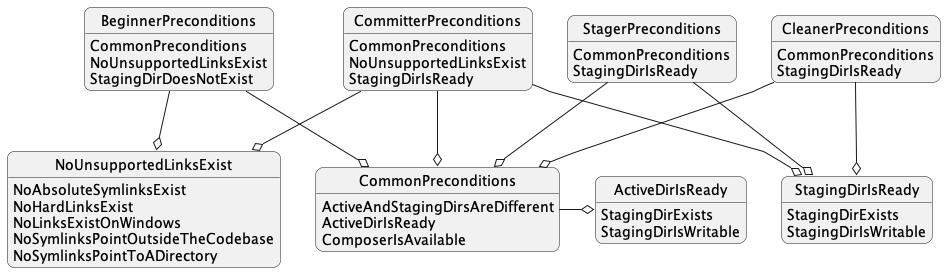
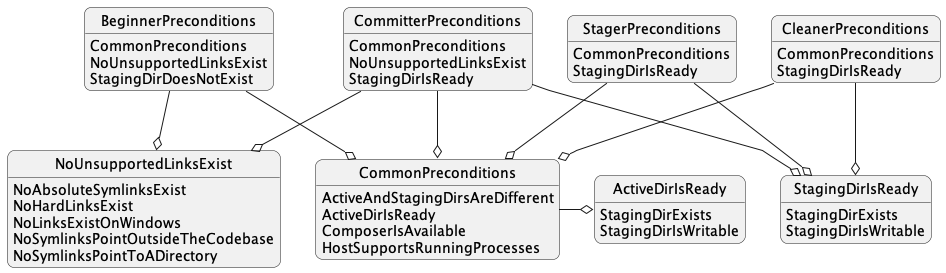
Add API\Precondition\Service\HostSupportsRunningProcessesInterface.

diff --git a/tests/Precondition/Service/CommonPreconditionsUnitTest.php b/tests/Precondition/Service/CommonPreconditionsUnitTest.php
@@ -5,6 +5,7 @@ namespace PhpTuf\ComposerStager\Tests\Precondition\Service;
 use PhpTuf\ComposerStager\API\Precondition\Service\ActiveAndStagingDirsAreDifferentInterface;
 use PhpTuf\ComposerStager\API\Precondition\Service\ActiveDirIsReadyInterface;
 use PhpTuf\ComposerStager\API\Precondition\Service\ComposerIsAvailableInterface;
+use PhpTuf\ComposerStager\API\Precondition\Service\HostSupportsRunningProcessesInterface;
 use PhpTuf\ComposerStager\Internal\Precondition\Service\CommonPreconditions;
 use PhpTuf\ComposerStager\Tests\Translation\Factory\TestTranslatableFactory;
 
@@ -23,6 +24,7 @@ use PhpTuf\ComposerStager\Tests\Translation\Factory\TestTranslatableFactory;
  * @property \PhpTuf\ComposerStager\API\Precondition\Service\ActiveAndStagingDirsAreDifferentInterface|\Prophecy\Prophecy\ObjectProphecy $activeAndStagingDirsAreDifferent
  * @property \PhpTuf\ComposerStager\API\Precondition\Service\ActiveDirIsReadyInterface|\Prophecy\Prophecy\ObjectProphecy $activeDirIsReady
  * @property \PhpTuf\ComposerStager\API\Precondition\Service\ComposerIsAvailableInterface|\Prophecy\Prophecy\ObjectProphecy $composerIsAvailable
+ * @property \PhpTuf\ComposerStager\API\Precondition\Service\HostSupportsRunningProcessesInterface|\Prophecy\Prophecy\ObjectProphecy $hostSupportsRunningProcesses
  */
 final class CommonPreconditionsUnitTest extends PreconditionTestCase
 {
@@ -40,6 +42,10 @@ final class CommonPreconditionsUnitTest extends PreconditionTestCase
         $this->composerIsAvailable
             ->getLeaves()
             ->willReturn([$this->composerIsAvailable]);
+        $this->hostSupportsRunningProcesses = $this->prophesize(HostSupportsRunningProcessesInterface::class);
+        $this->hostSupportsRunningProcesses
+            ->getLeaves()
+            ->willReturn([$this->hostSupportsRunningProcesses]);
 
         parent::setUp();
     }
@@ -49,12 +55,14 @@ final class CommonPreconditionsUnitTest extends PreconditionTestCase
         $activeAndStagingDirsAreDifferent = $this->activeAndStagingDirsAreDifferent->reveal();
         $activeDirIsReady = $this->activeDirIsReady->reveal();
         $composerIsAvailable = $this->composerIsAvailable->reveal();
+        $hostSupportsRunningProcesses = $this->hostSupportsRunningProcesses->reveal();
         $translatableFactory = new TestTranslatableFactory();
 
         return new CommonPreconditions(
             $activeAndStagingDirsAreDifferent,
             $activeDirIsReady,
             $composerIsAvailable,
+            $hostSupportsRunningProcesses,
             $translatableFactory,
         );
     }
@@ -68,6 +76,9 @@ final class CommonPreconditionsUnitTest extends PreconditionTestCase
             ->assertIsFulfilled($this->activeDir, $this->stagingDir, $this->exclusions)
             ->shouldBeCalledTimes(self::EXPECTED_CALLS_MULTIPLE);
         $this->activeAndStagingDirsAreDifferent
+            ->assertIsFulfilled($this->activeDir, $this->stagingDir, $this->exclusions)
+            ->shouldBeCalledTimes(self::EXPECTED_CALLS_MULTIPLE);
+        $this->hostSupportsRunningProcesses
             ->assertIsFulfilled($this->activeDir, $this->stagingDir, $this->exclusions)
             ->shouldBeCalledTimes(self::EXPECTED_CALLS_MULTIPLE);
 

diff --git a/tests/Precondition/Service/HostSupportsRunningProcessesFunctionalTest.php b/tests/Precondition/Service/HostSupportsRunningProcessesFunctionalTest.php
@@ -1,0 +1,77 @@
+<?php declare(strict_types=1);
+
+namespace PhpTuf\ComposerStager\Tests\Precondition\Service;
+
+use PhpTuf\ComposerStager\API\Path\Value\PathInterface;
+use PhpTuf\ComposerStager\Internal\Precondition\Service\HostSupportsRunningProcesses;
+use PhpTuf\ComposerStager\Tests\TestCase;
+
+/**
+ * @coversDefaultClass \PhpTuf\ComposerStager\Internal\Precondition\Service\HostSupportsRunningProcesses
+ *
+ * @covers ::__construct
+ *
+ * @uses \PhpTuf\ComposerStager\API\Exception\PreconditionException
+ * @uses \PhpTuf\ComposerStager\API\Translation\Factory\TranslatableAwareTrait
+ * @uses \PhpTuf\ComposerStager\Internal\Host\Service\Host
+ * @uses \PhpTuf\ComposerStager\Internal\Path\Factory\PathFactory
+ * @uses \PhpTuf\ComposerStager\Internal\Path\Value\AbstractPath
+ * @uses \PhpTuf\ComposerStager\Internal\Path\Value\UnixLikePath
+ * @uses \PhpTuf\ComposerStager\Internal\Precondition\Service\AbstractPrecondition
+ * @uses \PhpTuf\ComposerStager\Internal\Process\Factory\ProcessFactory
+ * @uses \PhpTuf\ComposerStager\Internal\Translation\Factory\TranslatableFactory
+ * @uses \PhpTuf\ComposerStager\Internal\Translation\Service\SymfonyTranslatorProxy
+ * @uses \PhpTuf\ComposerStager\Internal\Translation\Service\Translator
+ * @uses \PhpTuf\ComposerStager\Internal\Translation\Value\TranslatableMessage
+ * @uses \PhpTuf\ComposerStager\Internal\Translation\Value\TranslationParameters
+ */
+final class HostSupportsRunningProcessesFunctionalTest extends TestCase
+{
+    private PathInterface $activeDir;
+    private PathInterface $stagingDir;
+
+    protected function setUp(): void
+    {
+        $this->activeDir = self::activeDirPath();
+        $this->stagingDir = self::stagingDirPath();
+    }
+
+    private function createSut(): HostSupportsRunningProcesses
+    {
+        $container = $this->getContainer();
+        $container->compile();
+
+        /** @var \PhpTuf\ComposerStager\Internal\Precondition\Service\HostSupportsRunningProcesses $sut */
+        $sut = $container->get(HostSupportsRunningProcesses::class);
+
+        return $sut;
+    }
+
+    /**
+     * @covers ::assertIsFulfilled
+     *
+     * This test proves that the precondition correctly detects a failure from
+     * the Symfony Process component when the the proc_open() function is
+     * unavailable. Unfortunately, it is infeasible to simulate that condition
+     * in tests since functions cannot be disabled at runtime (at least, not
+     * without the runkit7 PECL extension), so it is skipped by default. It can
+     * be run on a one-off basis by manually disabling proc_open() in php.ini:
+     * ```ini
+     * disable_functions = proc_open
+     * ```
+     */
+    public function testUnfulfilled(): void
+    {
+        if (function_exists('proc_open')) {
+            // Exit early instead of marking skipped so as to avoid being marked as risky.
+            $this->expectNotToPerformAssertions();
+
+            return;
+        }
+
+        $sut = $this->createSut();
+
+        $isFulfilled = $sut->isFulfilled($this->activeDir, $this->stagingDir);
+        self::assertFalse($isFulfilled, 'Detected lack of support for running processes.');
+    }
+}

diff --git a/tests/Precondition/Service/HostSupportsRunningProcessesUnitTest.php b/tests/Precondition/Service/HostSupportsRunningProcessesUnitTest.php
@@ -1,0 +1,78 @@
+<?php declare(strict_types=1);
+
+namespace PhpTuf\ComposerStager\Tests\Precondition\Service;
+
+use PhpTuf\ComposerStager\API\Exception\LogicException;
+use PhpTuf\ComposerStager\Internal\Precondition\Service\HostSupportsRunningProcesses;
+use PhpTuf\ComposerStager\Internal\Process\Factory\ProcessFactoryInterface;
+use PhpTuf\ComposerStager\Tests\Translation\Factory\TestTranslatableFactory;
+use PhpTuf\ComposerStager\Tests\Translation\Service\TestTranslator;
+use PhpTuf\ComposerStager\Tests\Translation\Value\TestTranslatableMessage;
+use Prophecy\Argument;
+use Prophecy\Prophecy\ObjectProphecy;
+use Symfony\Component\Process\Process;
+
+/**
+ * @coversDefaultClass \PhpTuf\ComposerStager\Internal\Precondition\Service\HostSupportsRunningProcesses
+ *
+ * @covers ::__construct
+ * @covers ::assertIsFulfilled
+ * @covers ::getFulfilledStatusMessage
+ * @covers ::getStatusMessage
+ * @covers ::isFulfilled
+ *
+ * @uses \PhpTuf\ComposerStager\API\Exception\PreconditionException
+ * @uses \PhpTuf\ComposerStager\API\Translation\Factory\TranslatableAwareTrait
+ * @uses \PhpTuf\ComposerStager\Internal\Precondition\Service\AbstractPrecondition
+ * @uses \PhpTuf\ComposerStager\Internal\Translation\Value\TranslationParameters
+ *
+ * @property \PhpTuf\ComposerStager\API\Translation\Factory\TranslatableFactoryInterface|\Prophecy\Prophecy\ObjectProphecy $translatableFactory
+ */
+final class HostSupportsRunningProcessesUnitTest extends PreconditionTestCase
+{
+    private ObjectProphecy|ProcessFactoryInterface $processFactory;
+
+    protected function setUp(): void
+    {
+        $this->processFactory = $this->prophesize(ProcessFactoryInterface::class);
+        $this->processFactory
+            ->create(Argument::any())
+            ->willReturn(new Process([]));
+
+        parent::setUp();
+    }
+
+    protected function createSut(): HostSupportsRunningProcesses
+    {
+        /** @var \PhpTuf\ComposerStager\Internal\Process\Factory\ProcessFactory $processFactory */
+        $processFactory = $this->processFactory->reveal();
+        $translatableFactory = new TestTranslatableFactory();
+        $translator = new TestTranslator();
+
+        return new HostSupportsRunningProcesses($processFactory, $translatableFactory, $translator);
+    }
+
+    public function testFulfilled(): void
+    {
+        $this->processFactory
+            ->create(Argument::type('array'))
+            ->shouldBeCalled();
+
+        $this->doTestFulfilled('The host supports running independent PHP processes.');
+    }
+
+    public function testUnfulfilled(): void
+    {
+        $previousMessage = new TestTranslatableMessage(__METHOD__);
+        $previous = new LogicException($previousMessage);
+        $this->processFactory
+            ->create(Argument::type('array'))
+            ->shouldBeCalled()
+            ->willThrow($previous);
+
+        $this->doTestUnfulfilled(sprintf(
+            'The host does not support running independent PHP processes: %s',
+            $previousMessage,
+        ), $previous::class);
+    }
+}

diff --git a/src/Internal/Precondition/Service/HostSupportsRunningProcesses.php b/src/Internal/Precondition/Service/HostSupportsRunningProcesses.php
@@ -1,0 +1,60 @@
+<?php declare(strict_types=1);
+
+namespace PhpTuf\ComposerStager\Internal\Precondition\Service;
+
+use PhpTuf\ComposerStager\API\Exception\ExceptionInterface;
+use PhpTuf\ComposerStager\API\Exception\PreconditionException;
+use PhpTuf\ComposerStager\API\Path\Value\PathInterface;
+use PhpTuf\ComposerStager\API\Path\Value\PathListInterface;
+use PhpTuf\ComposerStager\API\Precondition\Service\HostSupportsRunningProcessesInterface;
+use PhpTuf\ComposerStager\API\Translation\Factory\TranslatableFactoryInterface;
+use PhpTuf\ComposerStager\API\Translation\Service\TranslatorInterface;
+use PhpTuf\ComposerStager\API\Translation\Value\TranslatableInterface;
+use PhpTuf\ComposerStager\Internal\Process\Factory\ProcessFactoryInterface;
+
+/**
+ * @package Precondition
+ *
+ * @internal Don't depend directly on this class. It may be changed or removed at any time without notice.
+ */
+final class HostSupportsRunningProcesses extends AbstractPrecondition implements HostSupportsRunningProcessesInterface
+{
+    public function __construct(
+        private readonly ProcessFactoryInterface $processFactory,
+        TranslatableFactoryInterface $translatableFactory,
+        TranslatorInterface $translator,
+    ) {
+        parent::__construct($translatableFactory, $translator);
+    }
+
+    public function getName(): TranslatableInterface
+    {
+        return $this->t('Host supports running processes');
+    }
+
+    public function getDescription(): TranslatableInterface
+    {
+        return $this->t('The host must support running independent '
+            . 'PHP processes in order to run Composer and other shell commands.');
+    }
+
+    public function assertIsFulfilled(
+        PathInterface $activeDir,
+        PathInterface $stagingDir,
+        ?PathListInterface $exclusions = null,
+    ): void {
+        try {
+            $this->processFactory->create([]);
+        } catch (ExceptionInterface $e) {
+            throw new PreconditionException($this, $this->t(
+                'The host does not support running independent PHP processes: %details',
+                $this->p(['%details' => $e->getMessage()]),
+            ), 0, $e);
+        }
+    }
+
+    protected function getFulfilledStatusMessage(): TranslatableInterface
+    {
+        return $this->t('The host supports running independent PHP processes.');
+    }
+}

diff --git a/src/Internal/Precondition/Service/CommonPreconditions.php b/src/Internal/Precondition/Service/CommonPreconditions.php
@@ -6,6 +6,7 @@ use PhpTuf\ComposerStager\API\Precondition\Service\ActiveAndStagingDirsAreDiffer
 use PhpTuf\ComposerStager\API\Precondition\Service\ActiveDirIsReadyInterface;
 use PhpTuf\ComposerStager\API\Precondition\Service\CommonPreconditionsInterface;
 use PhpTuf\ComposerStager\API\Precondition\Service\ComposerIsAvailableInterface;
+use PhpTuf\ComposerStager\API\Precondition\Service\HostSupportsRunningProcessesInterface;
 use PhpTuf\ComposerStager\API\Translation\Factory\TranslatableFactoryInterface;
 use PhpTuf\ComposerStager\API\Translation\Value\TranslatableInterface;
 
@@ -20,6 +21,7 @@ final class CommonPreconditions extends AbstractPreconditionsTree implements Com
         ActiveAndStagingDirsAreDifferentInterface $activeAndStagingDirsAreDifferent,
         ActiveDirIsReadyInterface $activeDirIsReady,
         ComposerIsAvailableInterface $composerIsAvailable,
+        HostSupportsRunningProcessesInterface $hostCanRunProcesses,
         TranslatableFactoryInterface $translatableFactory,
     ) {
         parent::__construct(
@@ -27,6 +29,7 @@ final class CommonPreconditions extends AbstractPreconditionsTree implements Com
             $activeAndStagingDirsAreDifferent,
             $activeDirIsReady,
             $composerIsAvailable,
+            $hostCanRunProcesses,
         );
     }
 

diff --git a/tests/EndToEnd/PhpFileSyncerEndToEndFunctionalTest.php b/tests/EndToEnd/PhpFileSyncerEndToEndFunctionalTest.php
@@ -35,6 +35,7 @@ use PhpTuf\ComposerStager\Internal\FileSyncer\Service\PhpFileSyncer;
  * @uses \PhpTuf\ComposerStager\Internal\Precondition\Service\CommitterPreconditions
  * @uses \PhpTuf\ComposerStager\Internal\Precondition\Service\CommonPreconditions
  * @uses \PhpTuf\ComposerStager\Internal\Precondition\Service\ComposerIsAvailable
+ * @uses \PhpTuf\ComposerStager\Internal\Precondition\Service\HostSupportsRunningProcesses
  * @uses \PhpTuf\ComposerStager\Internal\Precondition\Service\NoAbsoluteSymlinksExist
  * @uses \PhpTuf\ComposerStager\Internal\Precondition\Service\NoHardLinksExist
  * @uses \PhpTuf\ComposerStager\Internal\Precondition\Service\NoLinksExistOnWindows

diff --git a/src/API/Precondition/Service/HostSupportsRunningProcessesInterface.php b/src/API/Precondition/Service/HostSupportsRunningProcessesInterface.php
@@ -1,0 +1,20 @@
+<?php declare(strict_types=1);
+
+namespace PhpTuf\ComposerStager\API\Precondition\Service;
+
+/**
+ * Asserts that the host can run independent PHP processes.
+ *
+ * PHP processes are used to run such shell commands as `composer` and `rsync`.
+ *
+ * This interface exists solely to facilitate autowiring dependencies through type hinting.
+ *
+ * @see https://symfony.com/doc/current/service_container/autowiring.html
+ *
+ * @package Precondition
+ *
+ * @api This interface is subject to our backward compatibility promise and may be safely depended upon.
+ */
+interface HostSupportsRunningProcessesInterface extends PreconditionInterface
+{
+}
